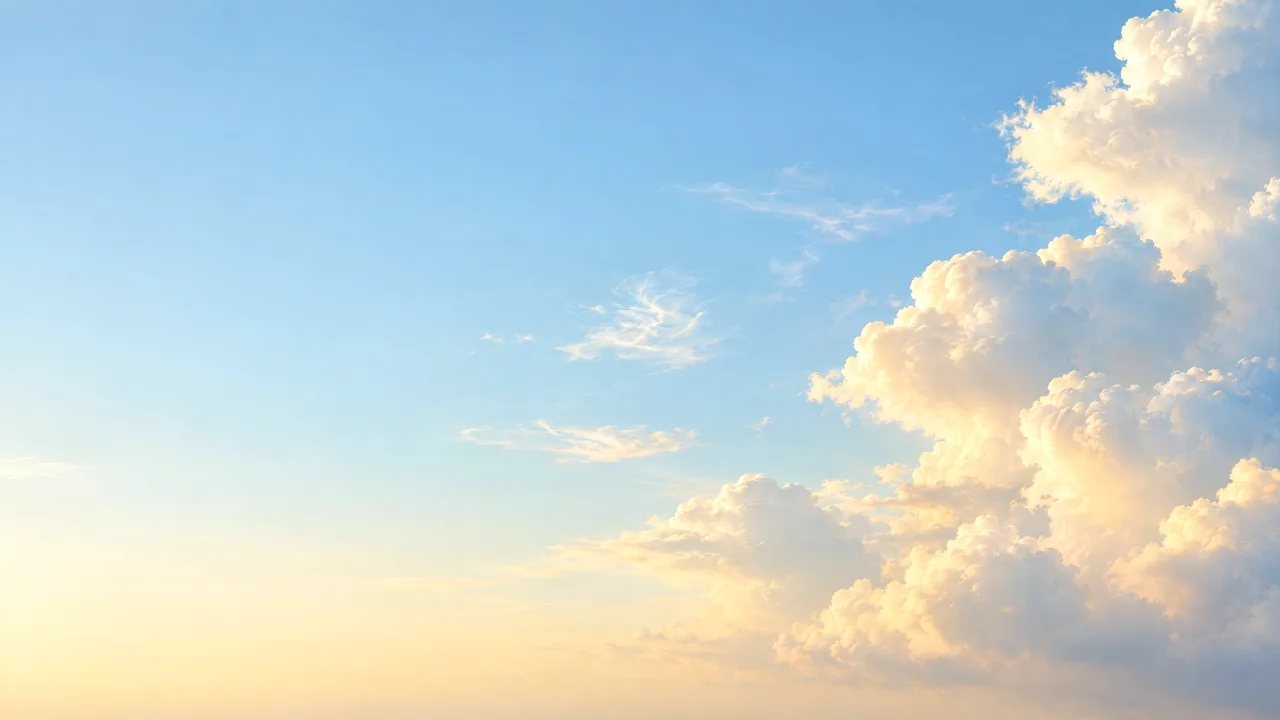
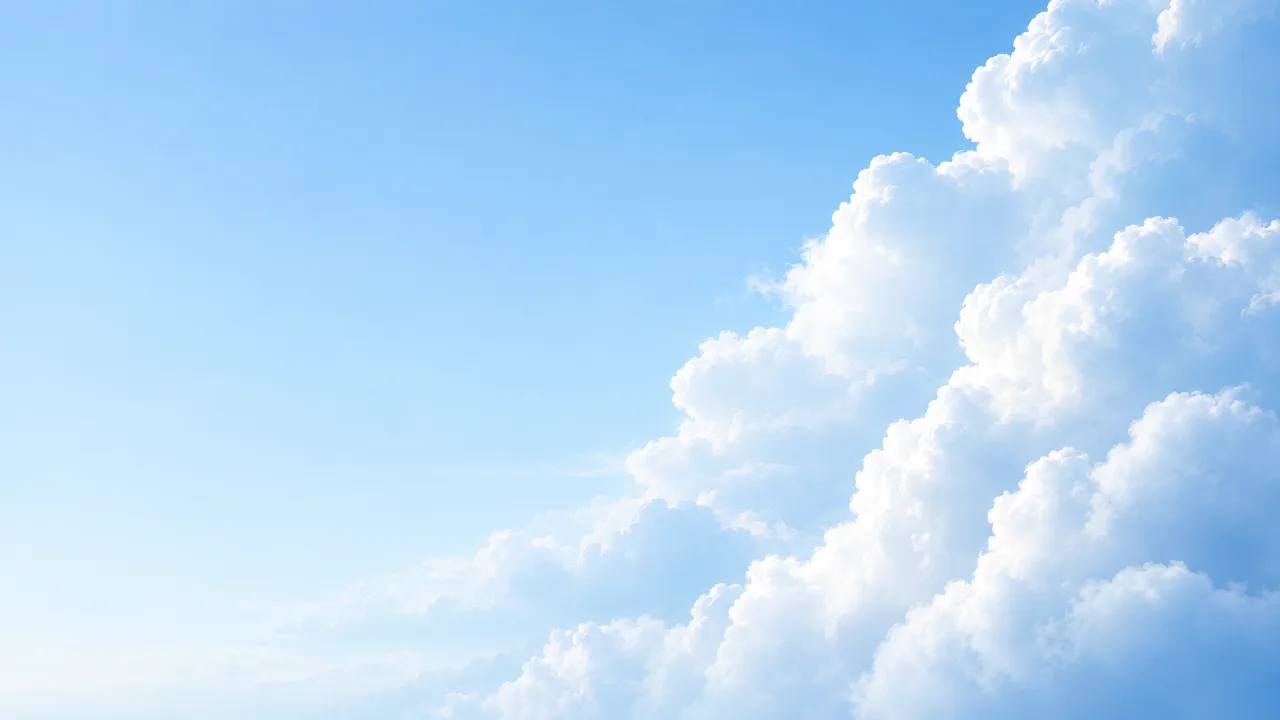
Landing: cloud-wall sky, frameless header, the stage on a clear sky, card polish
Joaquin picked the cloud-wall sky and found the header, the stage
background and the card below it. The sky is now that image alone (the
switch and the alternatives are gone). The header has no bar at the top
of the page, the logo on the headline's edge, and turns to glass only
after scrolling. On stage the sky stays sharp under a light veil and
eases forward instead of blurring to a beige smear; the progress track
is a light glass line over it. The card gets a deeper sky-tinted
shadow, a ringed level chip, a tighter, larger word and a hairline over
its footer; the result's buttons are flat like the hero's.

diff --git a/components/landing/level-check.tsx b/components/landing/level-check.tsx
@@ -56,11 +56,12 @@ const STAGE_PATH = "/level";
  * White on the page's warm paper, edged by a ring drawn as a shadow rather
  * than a border (a border adds to the box and greys the corner), then three
  * layers that each do one job: contact, lift, and a long soft fall tinted
- * toward the brand so the shadow belongs to the page instead of being grey.
+ * toward the sky behind it, so the shadow belongs to the page instead of
+ * being grey.
  */
 const SURFACE = cn(
   "bg-card rounded-[20px]",
-  "shadow-[0_0_0_1px_rgb(28_25_23/0.06),0_1px_2px_rgb(28_25_23/0.05),0_6px_14px_-4px_rgb(28_25_23/0.07),0_28px_56px_-16px_rgb(30_70_160/0.2)]",
+  "shadow-[0_0_0_1px_rgb(28_25_23/0.05),0_1px_2px_rgb(28_25_23/0.04),0_8px_18px_-6px_rgb(28_25_23/0.08),0_36px_72px_-20px_rgb(40_90_170/0.28)]",
   "dark:shadow-[0_0_0_1px_rgb(255_255_255/0.08),0_1px_3px_rgb(0_0_0/0.3),0_14px_36px_-10px_rgb(0_0_0/0.55)]",
 );
 
@@ -206,14 +207,15 @@ export function LevelCheck({
 
   return (
     <div className={cn("w-full", className)} style={{ height: staged && !standalone ? slot : undefined }}>
-      {/* A frosted veil over the hero's background, so the stage keeps the
-          same sky the first screen had instead of cutting to a blank page.
-          The hero's copy fades out under it on its own (`hero.tsx`), so
-          nothing reflows. */}
+      {/* A light veil over the hero's sky, so the stage keeps the same place
+          the first screen had instead of cutting to a blank page; the sky
+          itself eases forward under it (`HeroBackdrop`). Not frosted: blurred,
+          the clouds turned to a beige smear. The hero's copy fades out on its
+          own (`hero.tsx`), so nothing reflows. */}
       <div
         aria-hidden
         className={cn(
-          "bg-background/35 fixed inset-0 z-10 backdrop-blur-2xl transition-opacity ease-(--ease-standard)",
+          "fixed inset-0 z-10 bg-white/25 transition-opacity ease-(--ease-standard) dark:bg-black/40",
           staged ? "opacity-100" : "pointer-events-none opacity-0",
         )}
         style={{ transitionDuration: standalone ? "0ms" : `${STAGE_MS * 0.6}ms` }}
@@ -231,7 +233,9 @@ export function LevelCheck({
           transitionDelay: staged && !standalone ? "160ms" : "0ms",
         }}
       >
-        <div className="mx-auto flex w-full max-w-3xl items-center gap-3">
+        {/* The progress track is the onboarding's own component; over the sky
+            its grey track reads as dirt, so here it is a light glass line. */}
+        <div className="mx-auto flex w-full max-w-3xl items-center gap-3 [&_[data-slot=onboarding-progress]]:bg-white/55 [&_[data-slot=onboarding-progress]]:ring-1 [&_[data-slot=onboarding-progress]]:ring-white/60 dark:[&_[data-slot=onboarding-progress]]:bg-white/10 dark:[&_[data-slot=onboarding-progress]]:ring-0">
           {standalone ? (
             <Button variant="ghost" size="sm" aria-label={t("exit")} className="size-9 shrink-0 p-0" asChild>
               <Link href="/" prefetch={false}>
@@ -355,10 +359,15 @@ export function LevelCheck({
               className="flex items-center gap-3"
               style={{ animation: `blur-in ${IN_MS}ms var(--ease-entrance) 120ms backwards` }}
             >
-              <Button size="lg" variant="raised" className="text-[15px]" asChild>
+              <Button size="lg" variant="primary" className="rounded-full text-[15px]" asChild>
                 <EnterOnboarding>{t("measure")}</EnterOnboarding>
               </Button>
-              <Button size="lg" variant="ghost" className="text-[15px]" onClick={again}>
+              <Button
+                size="lg"
+                variant="ghost"
+                className="bg-card/80 hover:bg-card rounded-full text-[15px] shadow-[0_0_0_1px_rgb(28_25_23/0.08)] backdrop-blur"
+                onClick={again}
+              >
                 <RotateCcw className="size-4" />
                 {t("again")}
               </Button>
@@ -496,7 +505,7 @@ function Face({
           </span>
           {/* An invented word wears the band it was served at, so it cannot
               be spotted by being the one without one. */}
-          <span className="bg-surface-secondary text-text-secondary rounded-[6px] px-2 py-[3px] text-[12px] font-medium tabular-nums">
+          <span className="text-text-secondary rounded-[6px] px-2 py-[3px] text-[12px] font-medium tabular-nums ring-1 ring-black/[0.08] ring-inset dark:ring-white/[0.12]">
             {card.shown}
           </span>
         </div>
@@ -505,8 +514,8 @@ function Face({
           {/* Sized against the card, so the longest word still fits on one
               line: about 0.56em a letter at this weight. */}
           <p
-            className="font-heading text-foreground leading-[1.05] font-medium tracking-[-0.02em]"
-            style={{ fontSize: `min(40px, calc((100cqw - 44px) / ${word.word.length * 0.56}))` }}
+            className="font-heading text-foreground leading-[1.02] font-medium tracking-[-0.035em]"
+            style={{ fontSize: `min(46px, calc((100cqw - 44px) / ${word.word.length * 0.54}))` }}
           >
             {word.word}
           </p>
@@ -514,7 +523,7 @@ function Face({
           <p className="text-text-secondary mt-6 text-[16px] leading-snug">{t("question")}</p>
         </div>
 
-        <div className="mt-auto grid py-[18px] text-[13px]">
+        <div className="-mx-[22px] mt-auto grid border-t border-black/[0.05] px-[22px] py-[16px] text-[13px] dark:border-white/[0.08]">
           <span
             className="text-text-tertiary flex items-center justify-between [grid-area:1/1]"
             style={{ opacity: 1 - handover }}

diff --git a/components/site-header.tsx b/components/site-header.tsx
@@ -1,28 +1,49 @@
 "use client";
 
+import { useSyncExternalStore } from "react";
+
 import { LocaleSelector } from "@/components/locale-selector";
 import { ThemeToggle } from "@/components/theme-toggle";
 import { Link, usePathname } from "@/lib/i18n/navigation";
 import { scrollBehavior } from "@/lib/motion";
+import { cn } from "@/lib/utils";
+
+const onScroll = (notify: () => void) => {
+  window.addEventListener("scroll", notify, { passive: true });
+  return () => window.removeEventListener("scroll", notify);
+};
 
 /**
- * Floating header: a fixed wrapper that centres a rounded bar over the page
- * rather than a full-width band pinned to the top edge.
+ * Floating header. At the top of the page it has no bar at all: the logo and
+ * the two controls sit straight on the page, on the same left edge as the
+ * headline, the way the reference landings do it (1/nov) — a bar over a full
+ * background read as a strip pasted on top. Once the page scrolls, a glass
+ * bar fades in under them so they stay legible over whatever passes below.
  *
- * It is translucent and blurred, so whatever scrolls underneath stays visible
- * through it. Pages reserve the space it covers themselves — the bar is out of
- * the flow and cannot push anything down.
+ * Pages reserve the space it covers themselves — it is out of the flow and
+ * cannot push anything down.
  */
 export function SiteHeader() {
   const pathname = usePathname();
   const isHome = pathname === "/";
+  const scrolled = useSyncExternalStore(
+    onScroll,
+    () => window.scrollY > 8,
+    () => false,
+  );
 
   return (
     // Leaves with the rest of the hero while the level check is on stage.
     <div className="fixed top-4 right-0 left-0 z-50 flex justify-center px-6 transition-opacity duration-500 in-data-level-stage:pointer-events-none in-data-level-stage:opacity-0">
-      {/* Glass rather than a white bar: over the hero's background a solid
-          bar with a border reads as a separate strip pasted on top. */}
-      <nav className="bg-background/55 flex w-full max-w-6xl items-center justify-between rounded-2xl px-3 py-2.5 shadow-[0_0_0_1px_rgb(255_255_255/0.6),0_1px_2px_rgb(28_25_23/0.05),0_8px_24px_-12px_rgb(28_25_23/0.12)] backdrop-blur-xl backdrop-saturate-150 sm:px-4 sm:py-3 dark:shadow-[0_0_0_1px_rgb(255_255_255/0.08)]">
+      <nav
+        className={cn(
+          "flex w-full max-w-6xl items-center justify-between rounded-2xl py-2.5 sm:py-3",
+          "transition-[background-color,box-shadow,padding] duration-300 ease-(--ease-standard)",
+          scrolled
+            ? "bg-background/85 px-3 shadow-[0_0_0_1px_rgb(255_255_255/0.6),0_1px_2px_rgb(28_25_23/0.05),0_8px_24px_-12px_rgb(28_25_23/0.12)] backdrop-blur-xl backdrop-saturate-150 sm:px-4 dark:shadow-[0_0_0_1px_rgb(255_255_255/0.08)]"
+            : "bg-transparent px-0 shadow-none",
+        )}
+      >
         {/* A real link, so it is the way back from anywhere. On the home page
             there is nowhere to go, so it scrolls to the top instead — which is
             what it did everywhere before, and why deeper pages had to carry

diff --git a/components/landing/hero-backdrop.tsx b/components/landing/hero-backdrop.tsx
@@ -1,51 +1,30 @@
-"use client";
-
-import { useSyncExternalStore } from "react";
-
-const noSubscribe = () => () => {};
-
 /**
- * The hero's full-bleed background: a morning sky behind the whole first
- * screen, header included, fading into the page at the bottom so the section
- * below starts on plain ground. The stage (`LevelCheck`) keeps it under a
- * frosted veil, and `/level` renders it too.
+ * The hero's full-bleed background: a sky with a wall of cloud on the right,
+ * behind the whole first screen, header included, fading into the page at the
+ * bottom so the section below starts on plain ground.
+ *
+ * It is also what the measurement stands on: `LevelCheck` lays a light veil
+ * over it, and here the sky eases forward a little as the stage opens, so
+ * moving to the measurement reads as going further into the same place rather
+ * than cutting to another screen. `/level` renders it too.
  *
  * Two sizes, so a phone does not download the 2560px file.
- *
- * TEMPORARY (1/nov): `?bg=a1..a4` swaps in alternative skies while the sky is
- * being decided. Read on the client so the landing stays static; this goes
- * away once one is kept.
  */
-const SKY = { src: "/hero/sky.webp", small: "/hero/sky-1280.webp" };
-const ALTERNATIVES: Record<string, string> = {
-  a1: "/hero/alt-pastel.webp",
-  a2: "/hero/alt-cloudwall.webp",
-  a3: "/hero/alt-stratosphere.webp",
-  a4: "/hero/alt-techsky.webp",
-};
-
 export function HeroBackdrop() {
-  const alternative = useSyncExternalStore(
-    noSubscribe,
-    () => ALTERNATIVES[new URLSearchParams(window.location.search).get("bg") ?? ""] ?? null,
-    () => null,
-  );
-
   return (
     <div aria-hidden className="pointer-events-none absolute inset-0 -z-10 overflow-hidden">
       {/* eslint-disable-next-line @next/next/no-img-element */}
       <img
-        src={alternative ?? SKY.src}
-        srcSet={alternative ? undefined : `${SKY.small} 1280w, ${SKY.src} 2560w`}
+        src="/hero/sky.webp"
+        srcSet="/hero/sky-1280.webp 1280w, /hero/sky.webp 2560w"
         sizes="100vw"
         alt=""
         fetchPriority="high"
         // The phone crops a narrow window out of a wide picture: there it
         // takes the open sky, so the clouds do not sit behind the headline.
-        className="size-full object-cover object-[28%_50%] lg:object-right"
+        className="size-full origin-[70%_50%] object-cover object-[28%_50%] transition-transform duration-[1400ms] ease-(--ease-entrance) in-data-level-stage:scale-[1.06] lg:object-right motion-reduce:transition-none"
       />
-      {/* A faint light from the left, under the copy: the wisps that drift
-          toward the middle otherwise cross the headline and the line below. */}
+      {/* A faint light from the left, under the copy. */}
       <div className="absolute inset-0 bg-gradient-to-r from-white/35 via-white/10 to-transparent dark:from-black/30 dark:via-black/10" />
       <div className="to-background absolute inset-x-0 bottom-0 h-32 bg-gradient-to-b from-transparent" />
     </div>
